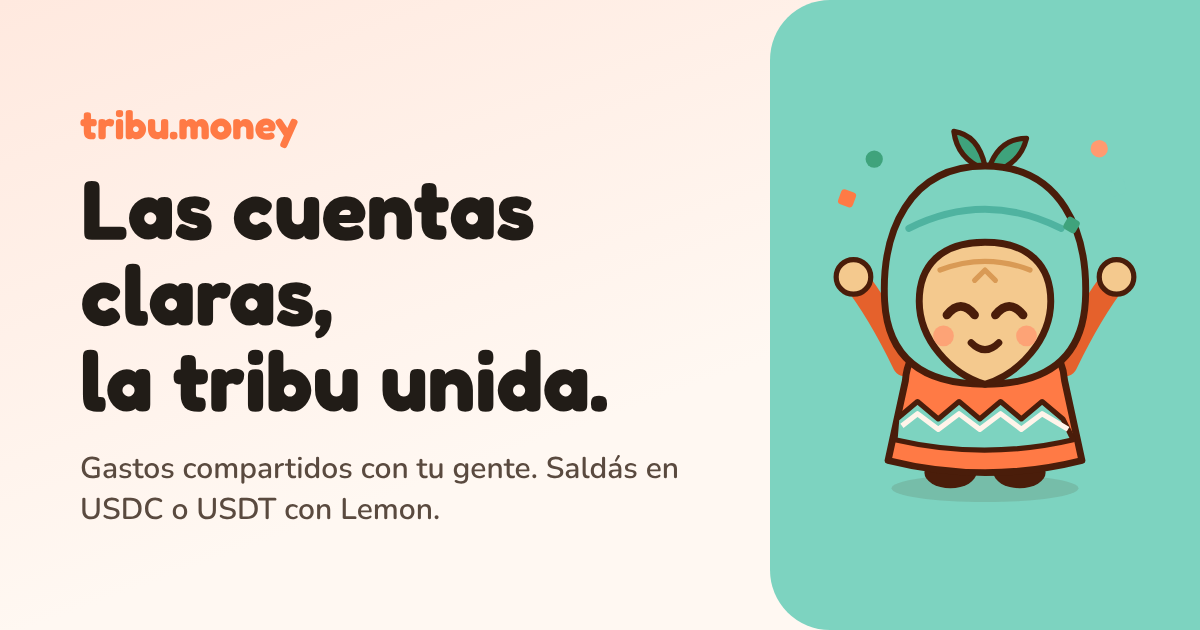
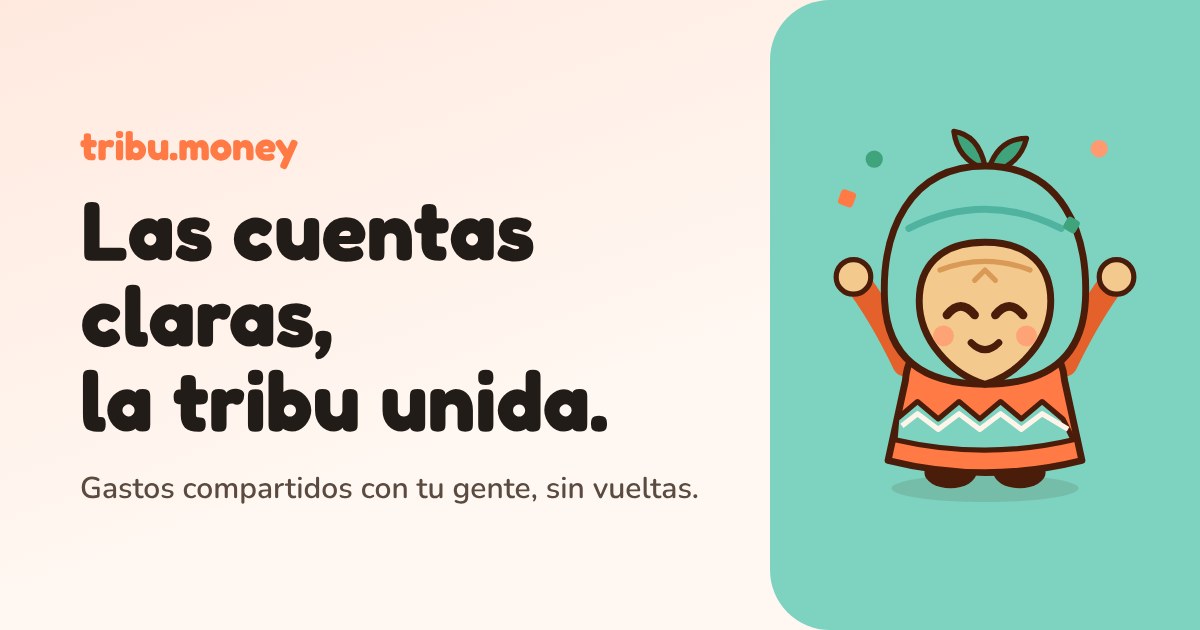
Move the source notice into the privacy page and drop Lemon from the pitch
The footer now links only to Privacidad. The privacy page carries the
AGPL notice and the link to the source, which the license still requires
for a hosted fork. The landing, the share image and the site description
no longer promise settling in USDC or USDT with Lemon; the Lemon payment
option still appears inside Lemon, where it works.

Changed region(s): [[0.0617, 0.181, 0.5242, 0.6937], [0.0617, 0.7238, 0.5858, 0.8444]]

diff --git a/apps/web/src/components/marketing/SiteFooter.tsx b/apps/web/src/components/marketing/SiteFooter.tsx
@@ -1,30 +1,16 @@
 import Link from 'next/link'
 import { useTranslations } from 'next-intl'
 
-/**
- * Tribu builds on AGPL-3.0 code, so anyone using the hosted app must be able to get its source.
- * The footer stays minimal, but that one link is a license obligation and must not be removed.
- */
-export const SOURCE_URL = 'https://github.com/impulsohypemedia-boop/tribu.money'
-
 export function SiteFooter() {
     const t = useTranslations('marketing.footer')
-    const linkClass = 'text-xs text-n-1/50 transition-colors hover:text-n-1'
 
     return (
         <footer className="mt-auto pb-[env(safe-area-inset-bottom)]">
-            <ul className="mx-auto flex w-full max-w-xl items-center justify-center gap-4 px-5 py-6">
-                <li>
-                    <Link href="/privacy" className={linkClass}>
-                        {t('privacyLink')}
-                    </Link>
-                </li>
-                <li>
-                    <a href={SOURCE_URL} target="_blank" rel="noopener noreferrer" className={linkClass}>
-                        {t('sourceStewardship')}
-                    </a>
-                </li>
-            </ul>
+            <div className="mx-auto flex w-full max-w-xl justify-center px-5 py-6">
+                <Link href="/privacy" className="text-xs text-n-1/50 transition-colors hover:text-n-1">
+                    {t('privacyLink')}
+                </Link>
+            </div>
         </footer>
     )
 }

diff --git a/apps/web/src/app/(product-shell)/privacy/page.tsx b/apps/web/src/app/(product-shell)/privacy/page.tsx
@@ -4,6 +4,7 @@ import { JsonLd } from '@/components/marketing/JsonLd'
 import { SiteFooter } from '@/components/marketing/SiteFooter'
 import { FEEDBACK_RETENTION_DAYS } from '@/lib/feedback-contract'
 import { breadcrumbSchema, pageMetadata, pageTitle } from '@/lib/seo'
+import { SOURCE_URL } from '@/lib/source'
 
 /**
  * DRAFT. Tribu's operator, legal entity and contact are not decided yet, so this page only states
@@ -54,6 +55,13 @@ export default function PrivacyPage() {
                 <p>
                     Los reportes de problemas que nos mandes se borran a los {FEEDBACK_RETENTION_DAYS} días. No vendemos
                     datos ni usamos tags de publicidad.
+                </p>
+                <p className="text-sm leading-6 text-n-1/70">
+                    Tribu es software libre bajo la licencia AGPL-3.0. El código está en{' '}
+                    <a href={SOURCE_URL} target="_blank" rel="noopener noreferrer" className="underline">
+                        GitHub
+                    </a>
+                    .
                 </p>
             </div>
 

diff --git a/apps/web/src/components/marketing/SiteFooter.test.tsx b/apps/web/src/components/marketing/SiteFooter.test.tsx
@@ -1,6 +1,6 @@
 import { renderToStaticMarkup } from 'react-dom/server'
 import { describe, expect, it, vi } from 'vitest'
-import { SiteFooter, SOURCE_URL } from './SiteFooter'
+import { SiteFooter } from './SiteFooter'
 
 vi.mock('next-intl', () => ({
     useLocale: () => 'es-419',
@@ -10,11 +10,7 @@ vi.mock('next-intl', () => ({
 describe('SiteFooter', () => {
     const html = renderToStaticMarkup(<SiteFooter />)
 
-    it('links the public source, as the AGPL requires for a hosted fork', () => {
-        expect(html).toContain(`href="${SOURCE_URL}"`)
-    })
-
-    it('links the privacy notice', () => {
+    it('links the privacy notice, which carries the AGPL source link', () => {
         expect(html).toContain('href="/privacy"')
     })
 

diff --git a/apps/web/src/lib/seo.ts b/apps/web/src/lib/seo.ts
@@ -24,7 +24,7 @@ const STEWARD_URL = 'https://tribu.money/'
  * the served meta description is the kind of mismatch that gets structured data ignored.
  */
 export const SITE_DESCRIPTION =
-    'Gastos compartidos con amigos, pareja o familia. Compartí el link del grupo, cargá lo que pagó cada uno y saldá las deudas en USDC o USDT.'
+    'Gastos compartidos con amigos, pareja o familia. Compartí el link de la tribu, cargá lo que pagó cada uno y mirá quién le debe a quién.'
 
 /**
  * OG spells locales `language_TERRITORY`; everything else here uses BCP 47.

diff --git a/apps/web/src/lib/source.ts b/apps/web/src/lib/source.ts
@@ -1,0 +1,5 @@
+/**
+ * Tribu builds on AGPL-3.0 code, so anyone using the hosted app must be able to get its source.
+ * The privacy page carries that notice; it must not be removed while the code stays AGPL.
+ */
+export const SOURCE_URL = 'https://github.com/impulsohypemedia-boop/tribu.money'
